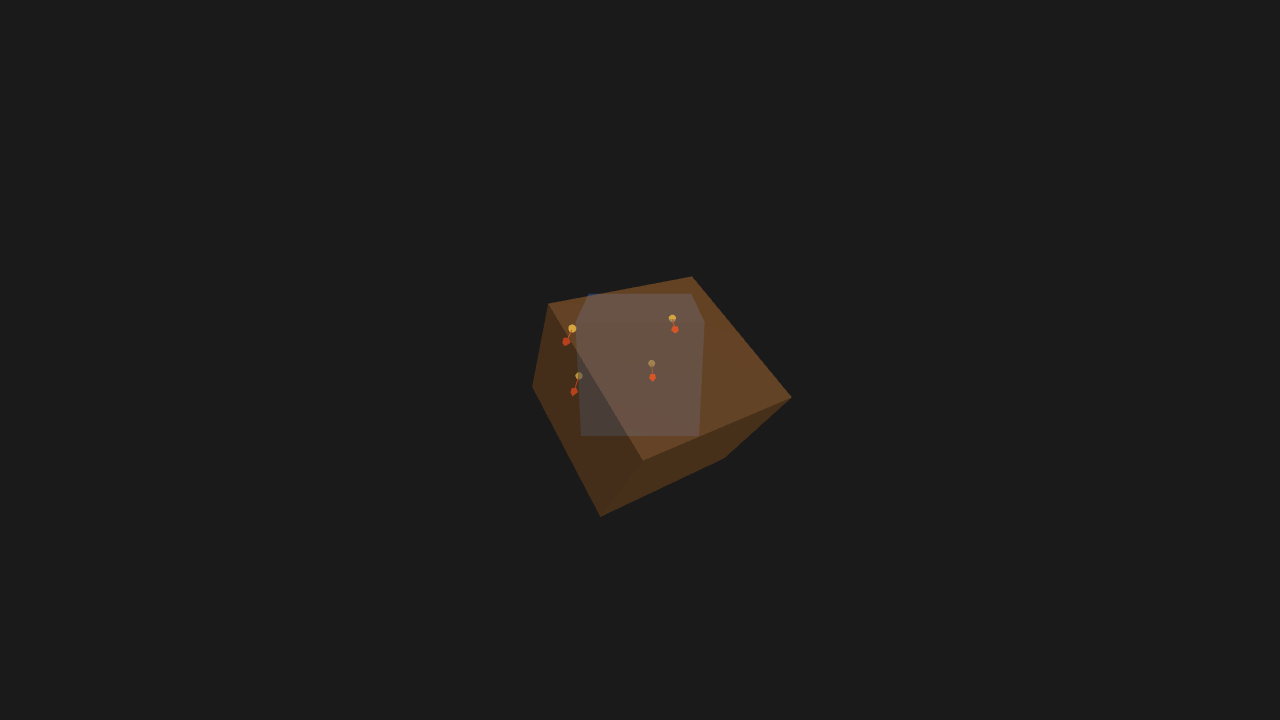
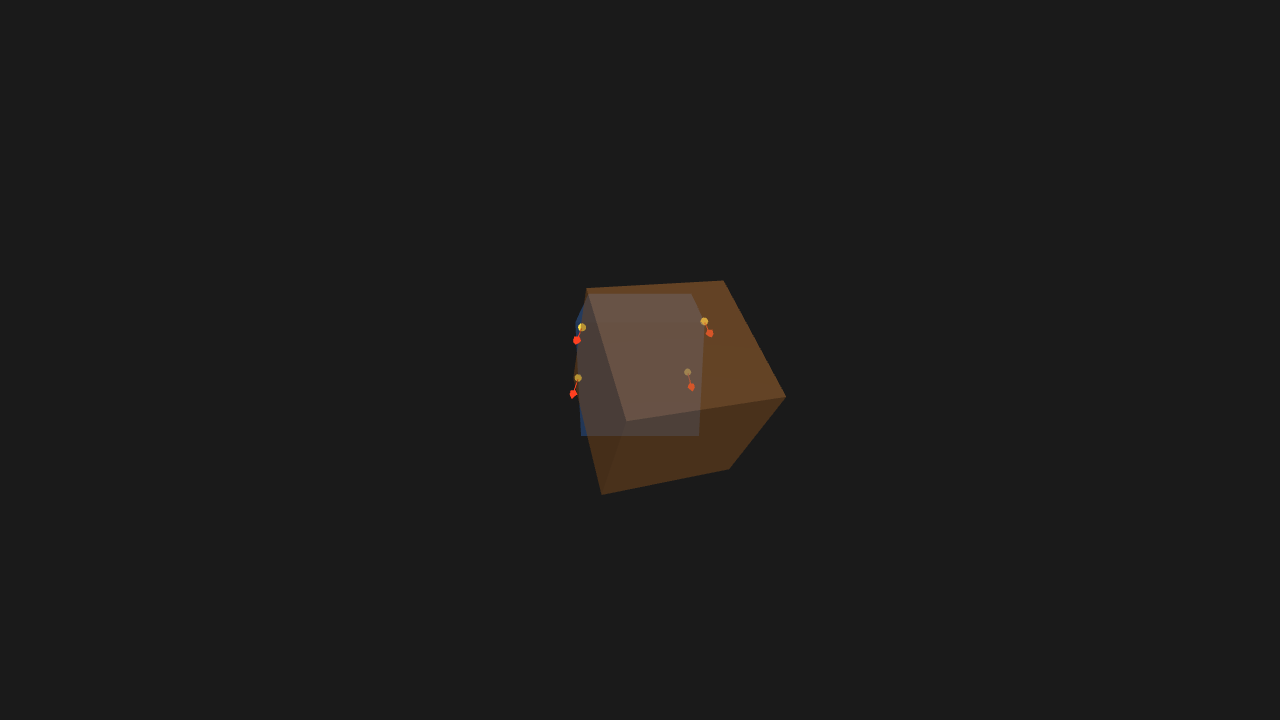
refactor: drop pure-math-op bindings (b3Cross/b3MakeQuatFromAxisAngle/etc)
A quick vec/quat/AABB op should never cross the wasm boundary — consumers use
gl-matrix/mathcat. Removed ~24 pure-math bindings; the two example usages now use
a tiny JS quatFromAxisAngle helper (and manifold drops b3InvMulTransforms since
shape A is at identity).

Changed region(s): [[0.4062, 0.3972, 0.625, 0.7333], [0.5312, 0.3667, 0.5938, 0.4889], [0.5938, 0.4889, 0.625, 0.5194]]

diff --git a/examples/src/math.ts b/examples/src/math.ts
@@ -1,0 +1,12 @@
+// Tiny math helpers for the examples. box3d intentionally does NOT expose its
+// inline vector/quaternion ops as bindings — a quick math op should never cross
+// the wasm boundary. Do it in JS (or bring your own gl-matrix / mathcat).
+
+import type { b3Quat, b3Vec3 } from 'box3d.js';
+
+// quaternion [x,y,z,w] for a rotation of `angle` radians about `axis` (any length)
+export function quatFromAxisAngle(axis: b3Vec3, angle: number): b3Quat {
+	const len = Math.hypot(axis[0], axis[1], axis[2]) || 1;
+	const s = Math.sin(angle / 2) / len;
+	return [axis[0] * s, axis[1] * s, axis[2] * s, Math.cos(angle / 2)];
+}

diff --git a/examples/src/example-manifold.ts b/examples/src/example-manifold.ts
@@ -8,11 +8,10 @@ import Box3D from 'box3d.js/inline';
 import type { Box3DModule, b3Transform, b3HullData, b3Vec3 } from 'box3d.js';
 import * as THREE from 'three';
 import { createHarness } from './harness';
+import { quatFromAxisAngle } from './math';
 
 const b3: Box3DModule = await Box3D();
 const app = createHarness({ camera: [0, 3, 8], target: [0, 0, 0] });
-
-const IDENTITY: b3Transform = { position: [0, 0, 0], quaternion: [0, 0, 0, 1] };
 
 // box3d hull for a box of the given half-extents
 function boxHull(hx: number, hy: number, hz: number): b3HullData {
@@ -93,7 +92,7 @@ app.onFrame((dt: number) => {
 	const dist = 1.6 + 0.5 * Math.sin(t * 0.8);
 	const xfB: b3Transform = {
 		position: [Math.cos(t * 0.5) * dist, Math.sin(t * 0.9) * 0.6, Math.sin(t * 0.5) * dist],
-		quaternion: b3.b3MakeQuatFromAxisAngle([0.3, 1, 0.2], t * 0.7),
+		quaternion: quatFromAxisAngle([0.3, 1, 0.2], t * 0.7),
 	};
 
 	meshA.position.set(0, 0, 0);
@@ -103,7 +102,7 @@ app.onFrame((dt: number) => {
 
 	// A is identity, so transformBtoA == xfB and manifold points are world-space
 	const [ka, kb] = pairs[params.pair];
-	const m = collide(ka, kb, b3.b3InvMulTransforms(IDENTITY, xfB));
+	const m = collide(ka, kb, xfB); // shape A is at identity, so B-relative-to-A == xfB
 
 	for (let i = 0; i < 4; i++) {
 		const p = m.points[i];

diff --git a/examples/src/example-character.ts b/examples/src/example-character.ts
@@ -21,6 +21,7 @@ import type {
 import Box3D from 'box3d.js/inline';
 import * as THREE from 'three';
 import { createWorldRenderer } from './box3d-three';
+import { quatFromAxisAngle } from './math';
 import { createHarness } from './harness';
 
 const b3: Box3DModule = await Box3D();
@@ -123,7 +124,7 @@ for (let j = 0; j < 5; j++) {
 // slopes — 10 angled boxes from 70° down to 25°
 for (let i = 0; i < 10; i++) {
 	const angle = ((70 - i * 5) * Math.PI) / 180;
-	const q = b3.b3MakeQuatFromAxisAngle([1, 0, 0], angle);
+	const q = quatFromAxisAngle([1, 0, 0], angle);
 	staticBox(-40 + 5 * i, 2, -25, 2.5, 0.6, 8, q);
 }
 

diff --git a/src/bindings.cpp b/src/bindings.cpp
@@ -938,8 +938,8 @@ EMSCRIPTEN_BINDINGS( box3d )
 
 	// --- manifold generation (b3Collide*). Collide two shapes, with shape B
 	// given relative to A via transformBtoA, returning { normal, points:[{point,
-	// separation}] } in shape A's local frame. Up to 4 points. ---
-	function( "b3InvMulTransforms(a, b)", &b3InvMulTransforms );
+	// separation}] } in shape A's local frame. Up to 4 points. Compute transformBtoA
+	// in JS (inverse of A times B) — no math-op wasm crossing. ---
 	function( "b3CollideSpheres(sphereA, sphereB, transformB)", +[]( b3Sphere a, b3Sphere b, b3Transform xf ) -> val
 	{
 		b3LocalManifoldPoint pts[4] = {}; b3LocalManifold m = {}; m.points = pts;
@@ -1717,39 +1717,9 @@ EMSCRIPTEN_BINDINGS( box3d )
 		.function( "sensorEndPtr", &EventsBuffer::sensorEndPtr )
 		.function( "jointPtr", &EventsBuffer::jointPtr );
 
-	function( "b3Distance(a, b)", &b3Distance );
-	function( "b3DistanceSquared(a, b)", &b3DistanceSquared );
-	function( "b3Cross(a, b)", &b3Cross );
-	function( "b3RotateVector(q, v)", &b3RotateVector );
-	function( "b3InvRotateVector(q, v)", &b3InvRotateVector );
-	function( "b3TransformPoint(transform, v)", &b3TransformPoint );
-	function( "b3MulTransforms(a, b)", &b3MulTransforms );
-	function( "b3AABB_Union(a, b)", &b3AABB_Union );
-	function( "b3MakeQuatFromAxisAngle(axis, radians)", &b3MakeQuatFromAxisAngle );
-	function( "b3ComputeQuatBetweenUnitVectors(v1, v2)", &b3ComputeQuatBetweenUnitVectors );
-	function( "b3InvMulQuat(a, b)", &b3InvMulQuat );
-	function( "b3OffsetPos(p, v)", &b3OffsetPos );
-	function( "b3Perp(v)", &b3Perp );
-	function( "b3IsNormalized(v)", &b3IsNormalized );
-	function( "b3IsValidPlane(p)", &b3IsValidPlane );
-	function( "b3AABB_Area(aabb)", &b3AABB_Area );
-	function( "b3AABB_Center(aabb)", &b3AABB_Center );
-	function( "b3AABB_Extents(aabb)", &b3AABB_Extents );
-	function( "b3ClosestPointToAABB(aabb, p)", &b3ClosestPointToAABB );
-	value_object<b3CosSin>( "b3CosSin" ).field( "cosine", &b3CosSin::cosine ).field( "sine", &b3CosSin::sine );
-	function( "b3ComputeCosSin(radians)", &b3ComputeCosSin );
-	function( "b3GetLengthAndNormalize(v)", +[]( b3Vec3 a ) -> val
-	{
-		float length = 0.0f;
-		b3Vec3 n = b3GetLengthAndNormalize( &length, a );
-		val o = val::object(); o.set( "length", length ); o.set( "normalized", val( n ) ); return o;
-	} );
-	function( "b3GetAxisAngle(q)", +[]( b3Quat q ) -> val
-	{
-		float radians = 0.0f;
-		b3Vec3 axis = b3GetAxisAngle( &radians, q );
-		val o = val::object(); o.set( "radians", radians ); o.set( "axis", val( axis ) ); return o;
-	} );
+	// NOTE: box3d's inline vector/quaternion/AABB math (b3Cross, b3RotateVector,
+	// b3MakeQuatFromAxisAngle, b3AABB_Union, …) is intentionally NOT bound — a quick
+	// math op should never cross the wasm boundary. Do it in JS (gl-matrix / mathcat).
 
 	// b3DynamicTree owns heap memory — opaque handle, never copied to JS by value. Category/mask/userData as 32-bit numbers.
 	class_<b3DynamicTree>( "b3DynamicTree" );